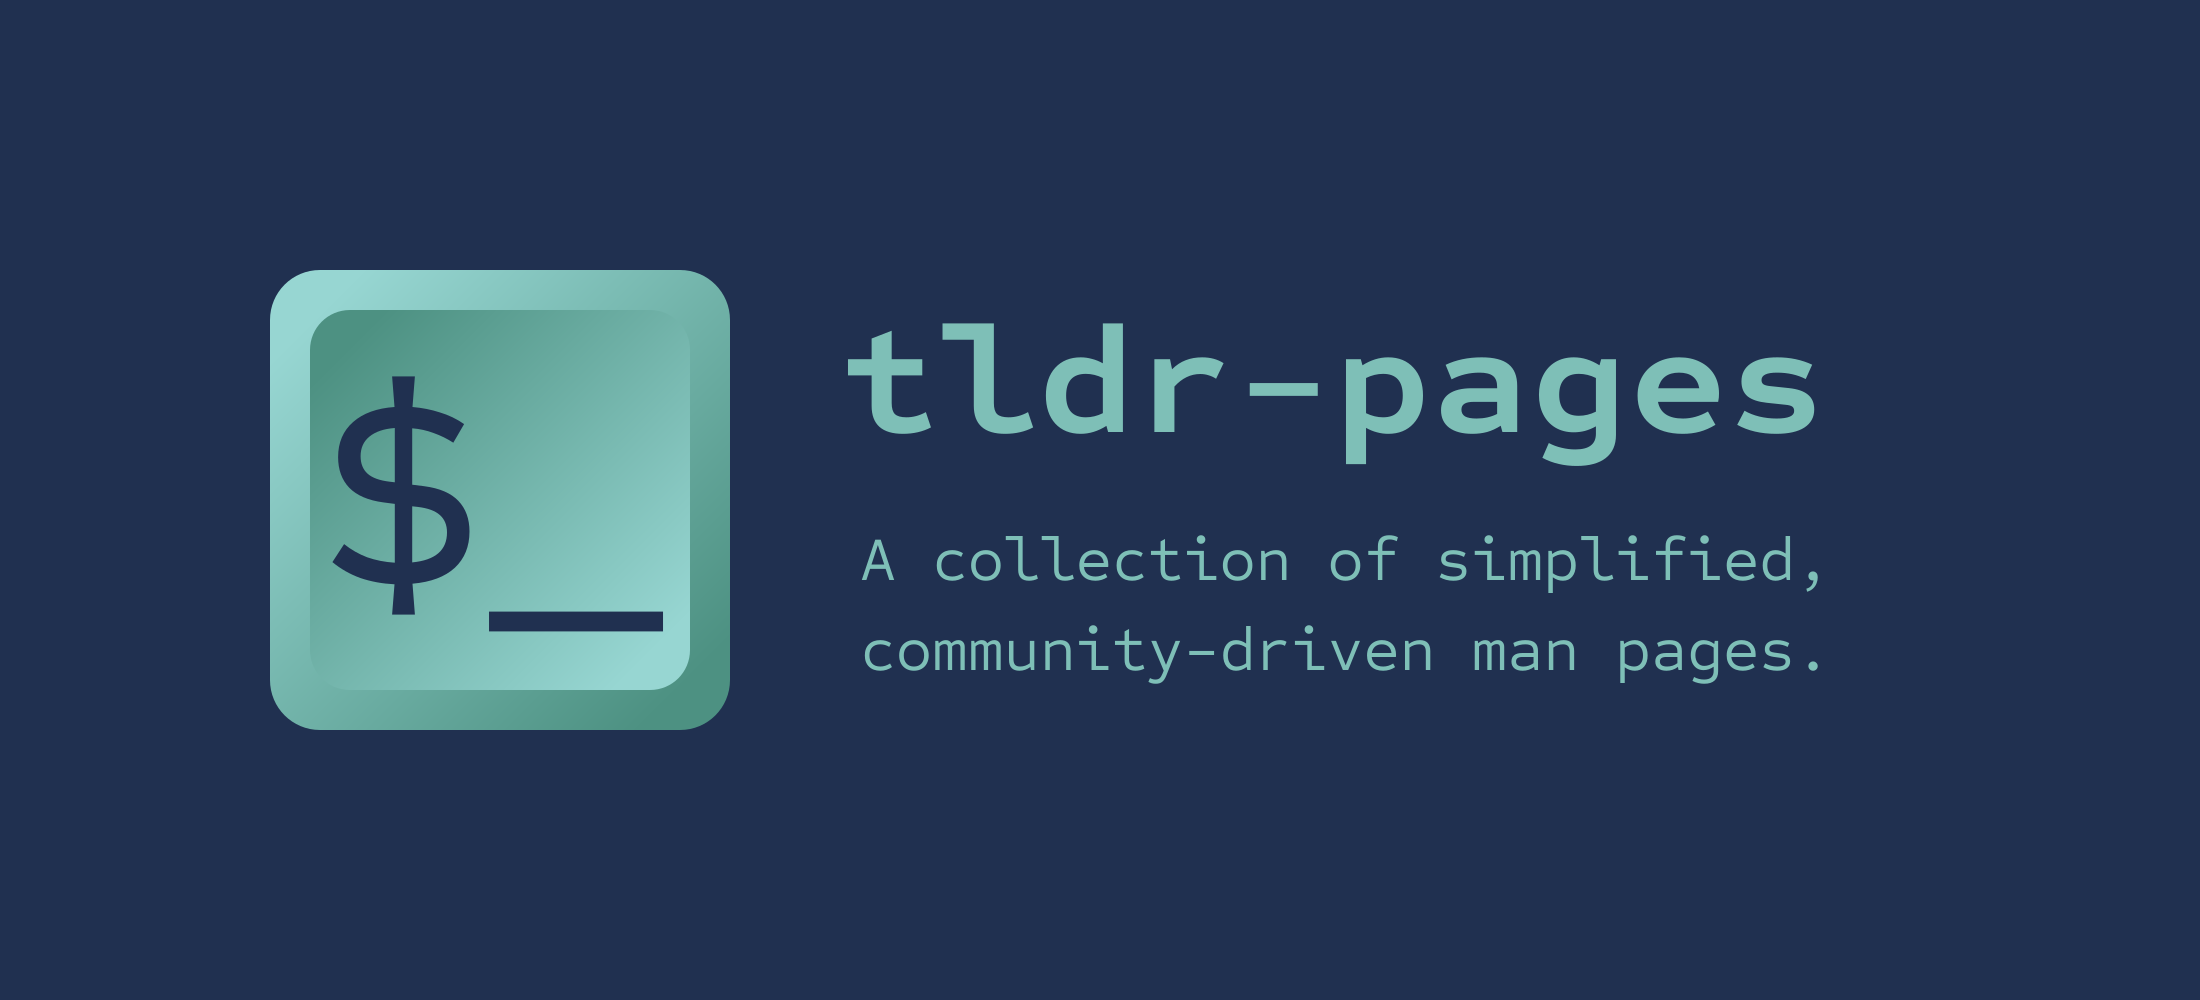
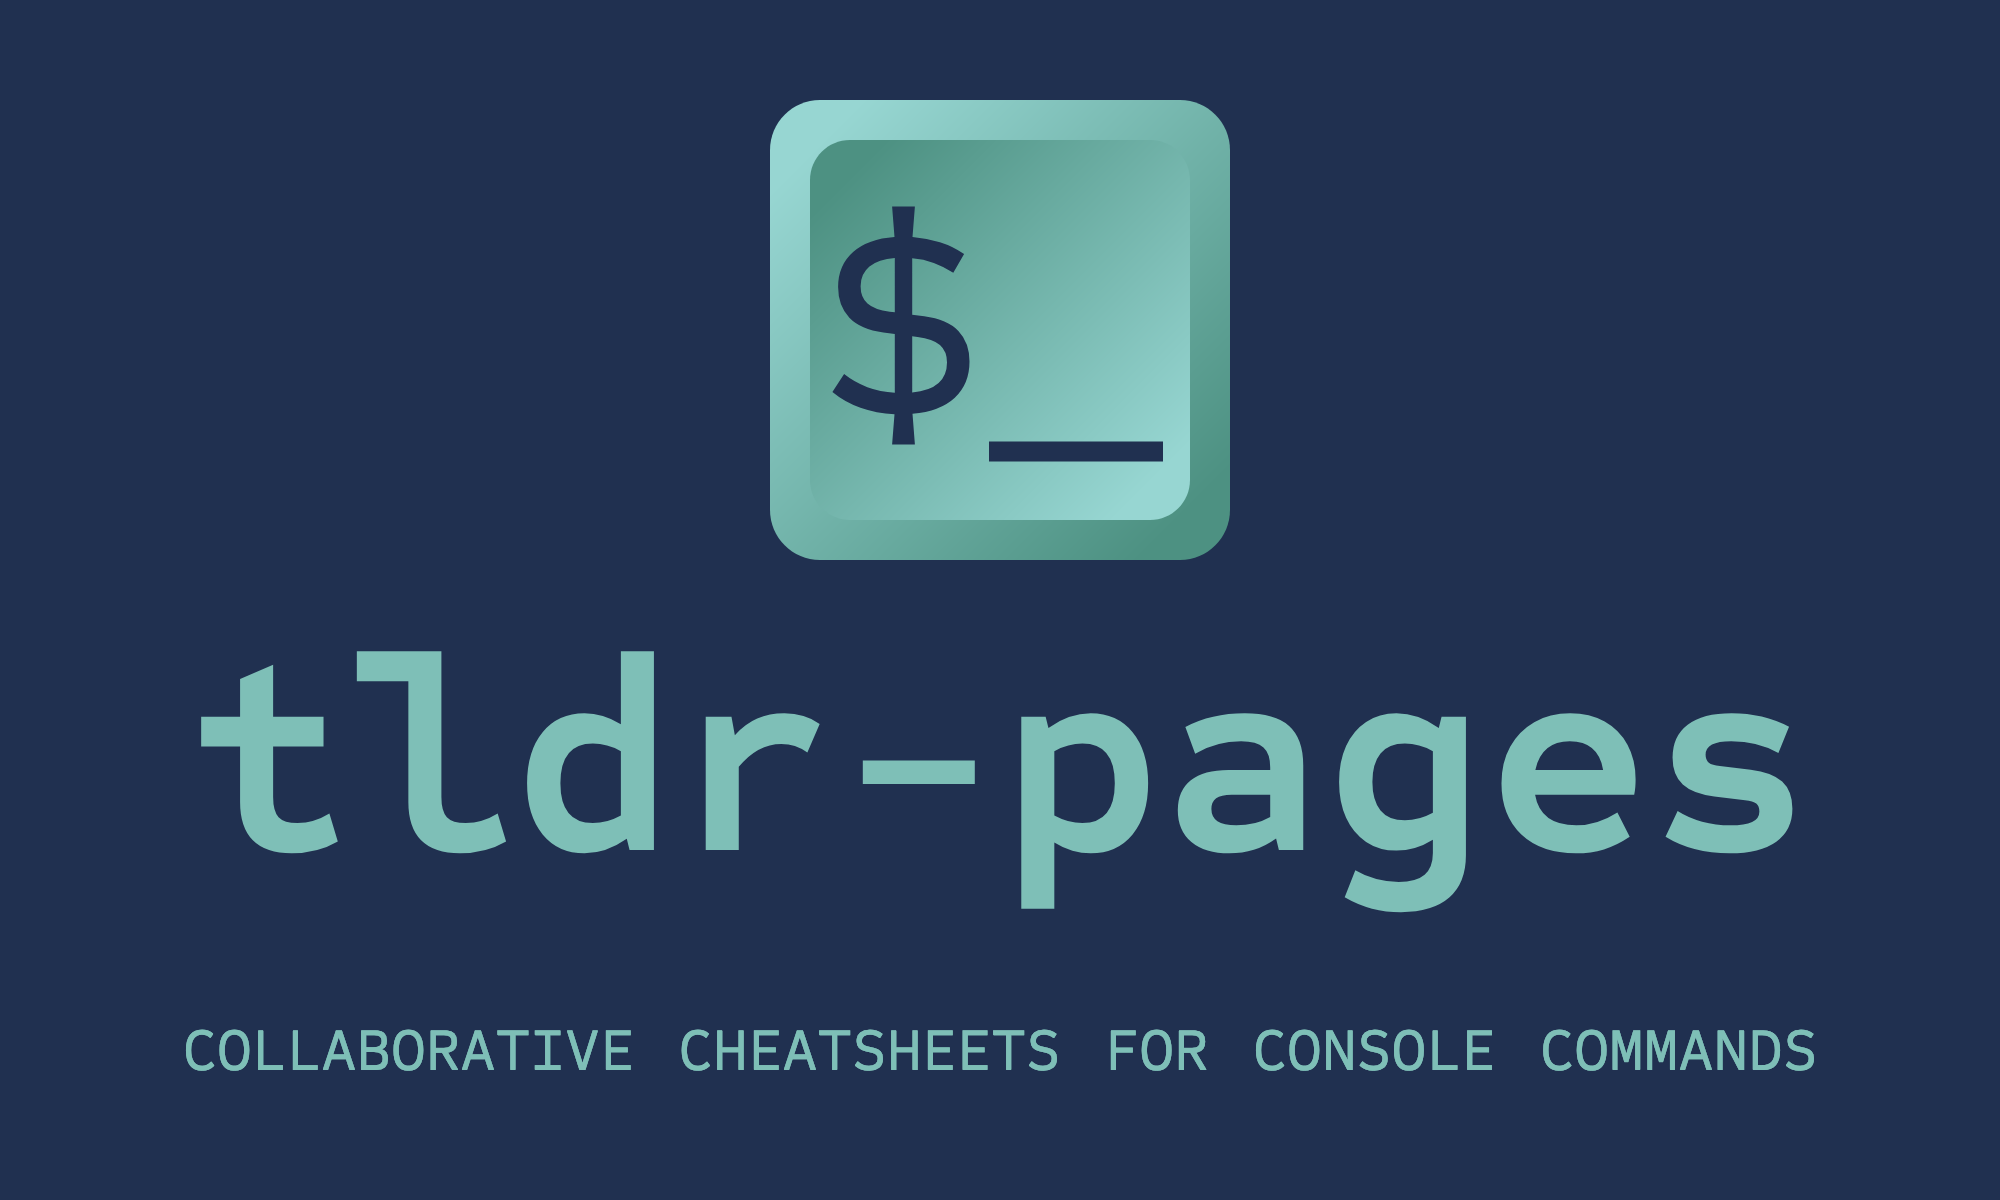
Update project motto and improve README

diff --git a/README.md b/README.md
@@ -1,4 +1,5 @@
-# tldr
+<div align="center">
+<h1><img alt="tldr-pages" src="images/banner-light.png" width=600/></h1>
 
 [![Build status][travis-image]][travis-url]
 [![Gitter chat][gitter-image]][gitter-url]
@@ -13,24 +14,24 @@
 [gitter-image]: https://badges.gitter.im/tldr-pages/tldr.svg
 [prs-merged-url]: https://github.com/tldr-pages/tldr/pulls?q=is:pr+is:merged
 [prs-merged-image]: https://img.shields.io/github/issues-pr-closed-raw/tldr-pages/tldr.svg?label=merged+PRs
-[issuestats-url]: http://isitmaintained.com/project/tldr-pages/tldr
-[issuestats-image]: http://isitmaintained.com/badge/resolution/tldr-pages/tldr.svg
+[issuestats-url]: https://isitmaintained.com/project/tldr-pages/tldr
+[issuestats-image]: https://isitmaintained.com/badge/resolution/tldr-pages/tldr.svg
 [contributors-url]: https://github.com/tldr-pages/tldr/graphs/contributors
 [contributors-image]: https://img.shields.io/github/contributors/tldr-pages/tldr.svg
 [license-url]: https://github.com/tldr-pages/tldr/blob/master/LICENSE.md
 [license-image]: https://img.shields.io/badge/license-CC%20BY%204.0-lightgrey.svg
-
-A collection of simplified and community-driven man pages.
-
-Install it with `npm install -g tldr`
-or [try the web client](http://tldr.ostera.io).
+</div>
 
 ## What is tldr-pages?
 
-New to the command-line world? Or just a little rusty?
+The **tldr-pages** project is a collection of community-maintained help pages
+for command-line tools, that aims to be a simpler, more approachable complement
+to traditional [man pages](https://en.wikipedia.org/wiki/Man_page).
+
+Maybe you are new to the command-line world? Or just a little rusty?
 Or perhaps you can't always remember the arguments to `lsof`, or `tar`?
 
-Maybe it doesn't help that the first option explained in `man tar` is:
+It certainly doesn't help that the first option explained in `man tar` is:
 
 ```
 -b blocksize
@@ -39,18 +40,27 @@ Maybe it doesn't help that the first option explained in `man tar` is:
    and usually not even then as the default block size of 20 records (10240 bytes) is very common.
 ```
 
-Surely people could benefit from simplified man pages
-focused on practical examples.
+There seems to be room for simpler help pages, focused on practical examples.
 How about:
 
 ![screenshot of the tldr-node-client displaying the tldr page for the tar command](images/screenshot.png)
 
 This repository is just that: an ever-growing collection of examples
-for the most common UNIX, Linux, macOS, SunOS and Windows commands.
+for the most common UNIX, Linux, macOS, SunOS and Windows command-line tools.
 
-## Clients
+## How do I use it?
 
-You can access these pages on your computer using one of the following clients:
+A popular and convenient way to access these pages on your computer
+is to install the [Node.js client](https://github.com/tldr-pages/tldr-node-client),
+which is supported by the tldr-pages project maintainers:
+
+    npm install -g tldr
+
+That way you can write `tldr tar` in the terminal to show the tldr page for `tar`,
+just like you would write `man tar` to show its manpage.
+
+There are also various other clients provided by the community,
+both for the command line and for other platforms:
 
 - [Alfred Workflow](https://github.com/cs1707/tldr-alfred)
 - [Albert Plugin](https://github.com/bergercookie/awesome-albert-plugins/tree/master/plugins/tldr_pages)
@@ -128,12 +138,15 @@ You can access these pages on your computer using one of the following clients:
 There is also a comprehensive
 [list of clients in our Wiki](https://github.com/tldr-pages/tldr/wiki/tldr-pages-clients).
 
-## Contributing
+## How do I contribute?
 
 - Your favourite command isn't covered?
 - You can think of more examples for an existing command?
 
-Contributions are most welcome!
+All `tldr` pages are kept as markdown files right here in this repository,
+so you can edit them directly and submit your changes as pull requests.
+
+All contributions are welcome!
 We strive to maintain a [welcoming and collaborative](GOVERNANCE.md) community.
 Have a look at the [contributing guidelines](CONTRIBUTING.md), and go ahead!
 

diff --git a/pages/common/tldr.md b/pages/common/tldr.md
@@ -1,7 +1,6 @@
 # tldr
 
-> Command-line client for tldr-pages.
-> Displays simplified and community-driven man pages.
+> Displays simple help pages for command-line tools, from the tldr-pages project.
 > More information: <https://tldr.sh>.
 
 - Get typical usages of a command (hint: this is how you got here!):
